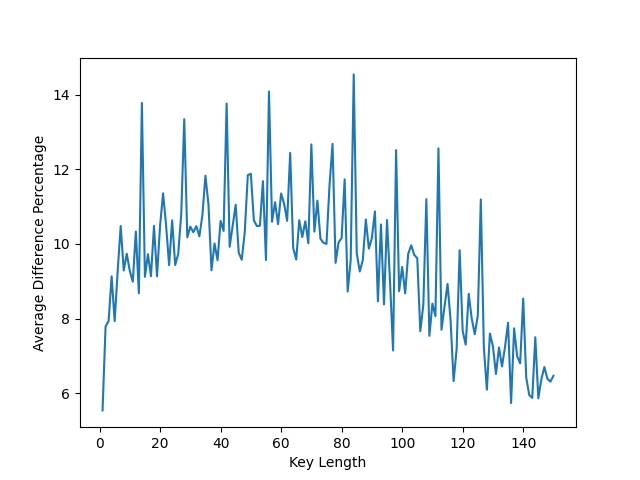
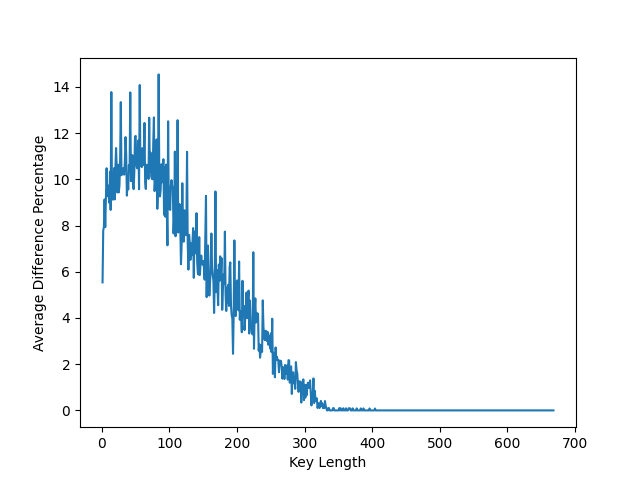
not quite there

diff --git a/lab0/task2.py b/lab0/task2.py
@@ -239,7 +239,7 @@ def vigenereCipher():
   dtxt = open('Lab0.TaskII.D.txt', 'r').read()
   print("dtxt: {}".format(dtxt))
 
-  keyA = ''.join([chr(x) for x in range(min(255, len(dtxt)))])
+  keyA = ''.join([chr(x) for x in range(len(dtxt))])
 
   biggestDifferencePercentage = 0
   biggestDifferenceKeyLength = 0
